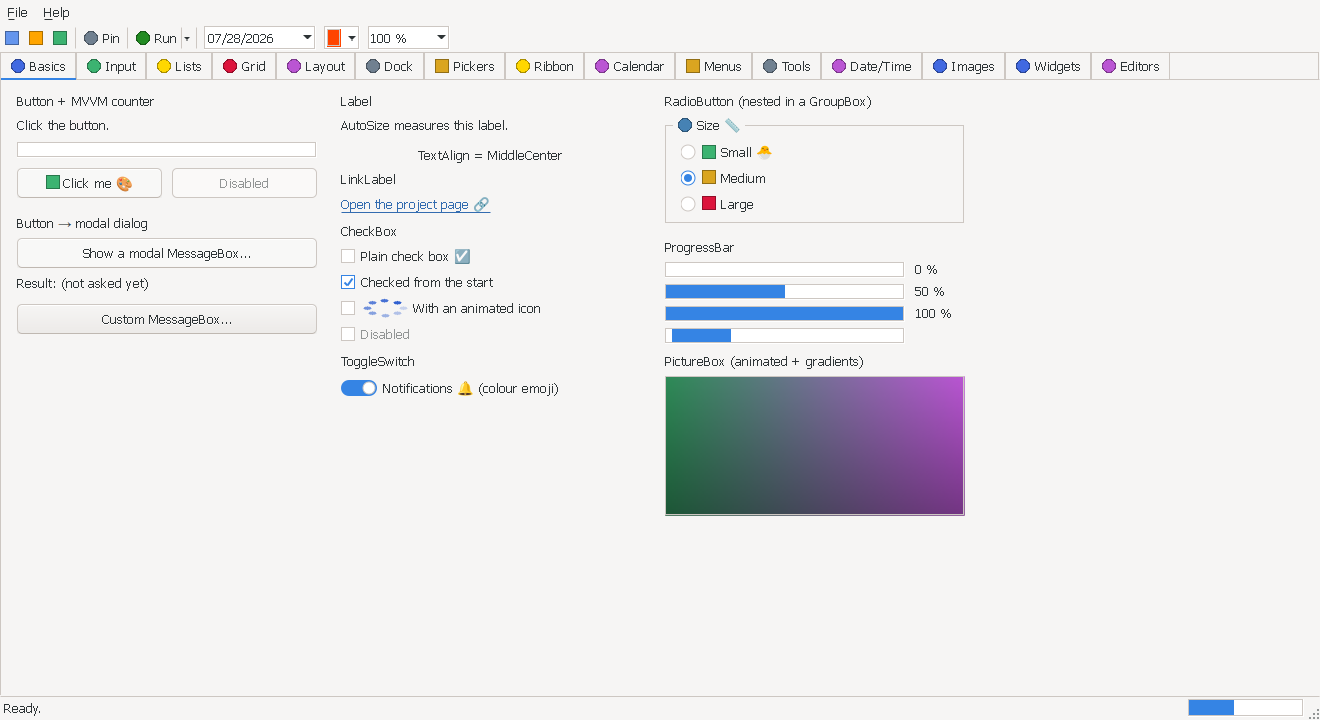
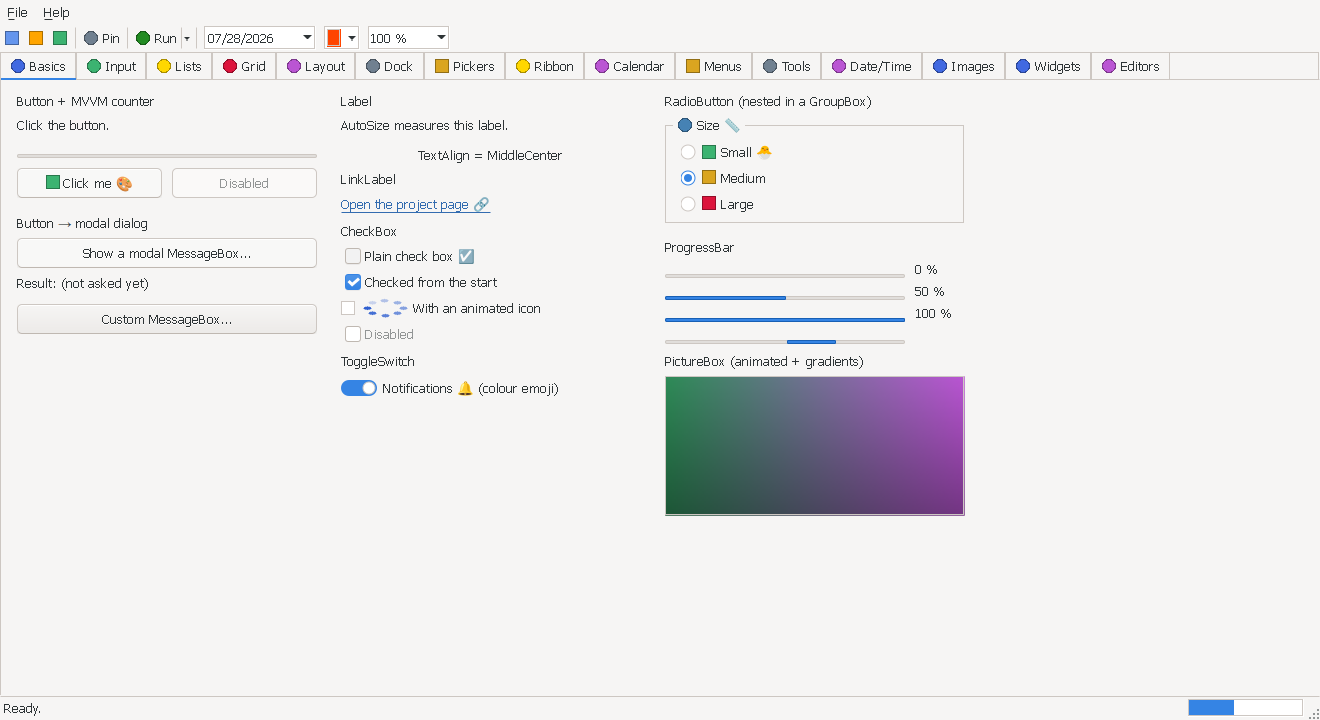
+ ProgressBar promotes to a real GtkProgressBar, proving the promotion mechanism generalizes (docs/PRD.md §12)

diff --git a/NativeForms.Core/Controls/ProgressBar.cs b/NativeForms.Core/Controls/ProgressBar.cs
@@ -17,6 +17,24 @@ namespace Hawkynt.NativeForms;
 /// </remarks>
 public class ProgressBar : OwnerDrawnControl
 {
+    private IProgressBarPeer? _native;
+
+    /// <summary>
+    /// Whether this bar realizes onto a real platform progress indicator rather than the owner-drawn
+    /// surface. <see langword="null"/> (the default) follows <see cref="Application.PreferNativeWidgets"/>.
+    /// </summary>
+    public bool? UseNativeWidget { get; set; }
+
+    /// <summary>Whether the control is currently backed by a real platform progress indicator.</summary>
+    public bool IsNativeWidget => _native is not null;
+
+    /// <summary>
+    /// Whether the configured properties stay inside what a platform progress bar expresses. A vertical
+    /// bar is excluded: GTK needs the orientation set at construction and Win32 needs a distinct style, so
+    /// the owner-drawn path keeps that case until the peers carry it.
+    /// </summary>
+    private bool IsNativeEligible => this.Orientation == Orientation.Horizontal;
+
     private int _minimum;
     private int _maximum = 100;
     private int _value;
@@ -70,6 +88,7 @@ public class ProgressBar : OwnerDrawnControl
                 return;
 
             _value = clamped;
+            this.PushNativeFraction();
             this.Invalidate();
             this.OnValueChanged(EventArgs.Empty);
         }
@@ -86,6 +105,8 @@ public class ProgressBar : OwnerDrawnControl
                 return;
 
             field = value;
+            _native?.SetMarquee(value == ProgressBarStyle.Marquee);
+            this.PushNativeFraction();
             this.UpdateMarqueeTimer();
             this.Invalidate();
         }
@@ -133,6 +154,39 @@ public class ProgressBar : OwnerDrawnControl
     /// <summary>Raises <see cref="ValueChanged"/>.</summary>
     protected virtual void OnValueChanged(EventArgs e) => this.ValueChanged?.Invoke(this, e);
 
+    /// <inheritdoc/>
+    /// <remarks>
+    /// The promotion point (PRD §12): a horizontal bar on a willing backend becomes a real platform
+    /// progress indicator, so the desktop's own trough, fill and animation are used. Everything else falls
+    /// back to the owner-drawn canvas.
+    /// </remarks>
+    private protected override IControlPeer CreatePeer(IPlatformBackend backend)
+    {
+        if ((this.UseNativeWidget ?? Application.PreferNativeWidgets)
+            && this.IsNativeEligible
+            && backend.CreateProgressBar() is { } peer)
+        {
+            _native = peer;
+            peer.SetMarquee(this.Style == ProgressBarStyle.Marquee);
+            peer.SetFraction(this.Fraction);
+            return peer;
+        }
+
+        return base.CreatePeer(backend);
+    }
+
+    /// <summary>The filled share of the track in 0..1, shared by the drawn and the native path.</summary>
+    private double Fraction
+    {
+        get
+        {
+            var range = _maximum - _minimum;
+            return range <= 0 ? 0 : Math.Clamp((double)(_value - _minimum) / range, 0, 1);
+        }
+    }
+
+    private void PushNativeFraction() => _native?.SetFraction(this.Fraction);
+
     private protected override void OnRealized(IControlPeer peer)
     {
         base.OnRealized(peer);
@@ -143,6 +197,7 @@ public class ProgressBar : OwnerDrawnControl
     private protected override void OnUnrealized()
     {
         base.OnUnrealized();
+        _native = null;
         _marqueeTimer?.Dispose();
         _marqueeTimer = null;
     }
@@ -245,6 +300,12 @@ public class ProgressBar : OwnerDrawnControl
             return;
 
         _marqueePhase = (_marqueePhase + Math.Max(1, period / 50)) % period;
-        this.Invalidate();
+
+        // A native indicator animates from its own pulse, not from our phase; both are driven by the same
+        // timer so the animation speed stays the control's property either way.
+        if (_native is { } peer)
+            peer.Pulse();
+        else
+            this.Invalidate();
     }
 }

diff --git a/NativeForms.Backends.Gtk/GtkProgressBarPeer.cs b/NativeForms.Backends.Gtk/GtkProgressBarPeer.cs
@@ -1,0 +1,58 @@
+using Hawkynt.NativeForms.Backends;
+
+namespace Hawkynt.NativeForms.Backends.Gtk;
+
+/// <summary>
+/// The GTK peer for a promoted <see cref="ProgressBar"/>, wrapping a real <c>GtkProgressBar</c> (PRD §12),
+/// so the desktop's own trough, fill and animation are used rather than our approximation of them.
+/// </summary>
+internal sealed class GtkProgressBarPeer : GtkControlPeer, IProgressBarPeer
+{
+    private double _fraction;
+    private bool _marquee;
+
+    /// <inheritdoc />
+    protected override nint CreateWidget() => NativeMethods.gtk_progress_bar_new();
+
+    /// <inheritdoc />
+    /// <remarks>A progress bar shows no caption here; the control draws none either.</remarks>
+    protected override void ApplyText(string text) { }
+
+    /// <inheritdoc />
+    public void SetFraction(double fraction)
+    {
+        _fraction = fraction;
+        if (_widget != 0 && !_marquee)
+            NativeMethods.gtk_progress_bar_set_fraction(_widget, fraction);
+    }
+
+    /// <inheritdoc />
+    public void SetMarquee(bool marquee)
+    {
+        _marquee = marquee;
+        if (_widget == 0)
+            return;
+
+        // Leaving marquee restores the determinate fill; entering it starts from an empty trough so the
+        // block does not jump from wherever the fraction happened to be.
+        if (marquee)
+            NativeMethods.gtk_progress_bar_set_pulse_step(_widget, 0.1);
+        else
+            NativeMethods.gtk_progress_bar_set_fraction(_widget, _fraction);
+    }
+
+    /// <inheritdoc />
+    public void Pulse()
+    {
+        if (_widget != 0 && _marquee)
+            NativeMethods.gtk_progress_bar_pulse(_widget);
+    }
+
+    /// <inheritdoc />
+    protected override void OnWidgetRealized()
+    {
+        NativeMethods.gtk_progress_bar_set_pulse_step(_widget, 0.1);
+        if (!_marquee)
+            NativeMethods.gtk_progress_bar_set_fraction(_widget, _fraction);
+    }
+}

diff --git a/NativeForms.Tests/NativePeerPromotionTests.cs b/NativeForms.Tests/NativePeerPromotionTests.cs
@@ -124,4 +124,49 @@ internal sealed class NativePeerPromotionTests
             Assert.That(raised, Is.EqualTo(1), "and raises the public event exactly once, not twice");
         });
     }
+
+    // --- ProgressBar: the same mechanism, a second control ---------------------------------------
+
+    private static ProgressBar RealizeBar(ProgressBar bar, HeadlessBackend backend)
+    {
+        var form = new Form();
+        form.Controls.Add(bar);
+        Application.Run(form, backend);
+        return bar;
+    }
+
+    [Test]
+    public void A_horizontal_progress_bar_promotes_and_pushes_its_fraction()
+    {
+        var backend = new HeadlessBackend { OfferNativeProgressBar = true };
+        var bar = RealizeBar(new ProgressBar { Bounds = new(0, 0, 200, 20), Minimum = 0, Maximum = 200 }, backend);
+
+        bar.Value = 50;
+
+        Assert.Multiple(() =>
+        {
+            Assert.That(bar.IsNativeWidget, Is.True);
+            Assert.That(backend.LastProgressBar!.Fraction, Is.EqualTo(0.25).Within(0.001), "50 of 200 is a quarter");
+        });
+    }
+
+    [Test]
+    public void A_vertical_progress_bar_stays_owner_drawn()
+    {
+        var backend = new HeadlessBackend { OfferNativeProgressBar = true };
+        var bar = RealizeBar(new ProgressBar { Bounds = new(0, 0, 20, 200), Orientation = Orientation.Vertical }, backend);
+
+        Assert.That(bar.IsNativeWidget, Is.False, "the peers do not carry a vertical orientation yet");
+    }
+
+    [Test]
+    public void Marquee_switches_the_widget_into_its_indeterminate_mode()
+    {
+        var backend = new HeadlessBackend { OfferNativeProgressBar = true };
+        var bar = RealizeBar(new ProgressBar { Bounds = new(0, 0, 200, 20) }, backend);
+
+        bar.Style = ProgressBarStyle.Marquee;
+
+        Assert.That(backend.LastProgressBar!.Marquee, Is.True);
+    }
 }

diff --git a/NativeForms.Tests/Fakes/HeadlessBackend.cs b/NativeForms.Tests/Fakes/HeadlessBackend.cs
@@ -132,7 +132,23 @@ internal sealed class HeadlessBackend : IPlatformBackend
     /// </summary>
     public bool OfferNativeCheckBox { get; set; }
 
-    /// <summary>The last check-box peer handed out, so a test can drive it like the real widget.</summary>
+/// <summary>Whether this backend accepts the progress-bar promotion (PRD §12). Off by default.</summary>
+    public bool OfferNativeProgressBar { get; set; }
+
+    /// <summary>The last progress peer handed out, so a test can inspect what the widget was told.</summary>
+    public HeadlessProgressBarPeer? LastProgressBar { get; private set; }
+
+    public IProgressBarPeer? CreateProgressBar()
+    {
+        if (!this.OfferNativeProgressBar)
+            return null;
+
+        this.LastProgressBar = new HeadlessProgressBarPeer();
+        this.Created.Add(this.LastProgressBar);
+        return this.LastProgressBar;
+    }
+
+        /// <summary>The last check-box peer handed out, so a test can drive it like the real widget.</summary>
     public HeadlessCheckBoxPeer? LastCheckBox { get; private set; }
 
     public ICheckBoxPeer? CreateCheckBox()
@@ -1220,4 +1236,21 @@ internal sealed class HeadlessCheckBoxPeer : HeadlessPeer, ICheckBoxPeer
         _checked = !_checked;
         CheckedChanged?.Invoke(this, EventArgs.Empty);
     }
+}
+
+
+/// <summary>A stand-in for a real platform progress indicator, so the promoted path is testable.</summary>
+internal sealed class HeadlessProgressBarPeer : HeadlessPeer, IProgressBarPeer
+{
+    public double Fraction { get; private set; }
+
+    public bool Marquee { get; private set; }
+
+    public int Pulses { get; private set; }
+
+    public void SetFraction(double fraction) => this.Fraction = fraction;
+
+    public void SetMarquee(bool marquee) => this.Marquee = marquee;
+
+    public void Pulse() => ++this.Pulses;
 }

diff --git a/NativeForms.Backends.Gtk/NativeMethods.cs b/NativeForms.Backends.Gtk/NativeMethods.cs
@@ -285,6 +285,22 @@ internal static partial class NativeMethods
 
     // --- Buttons and labels ---------------------------------------------------------------------
 
+    /// <summary>Creates a <c>GtkProgressBar</c>.</summary>
+    [LibraryImport(Gtk)]
+    internal static partial nint gtk_progress_bar_new();
+
+    /// <summary>Sets the filled fraction (0..1) of a progress bar.</summary>
+    [LibraryImport(Gtk)]
+    internal static partial void gtk_progress_bar_set_fraction(nint progressBar, double fraction);
+
+    /// <summary>Advances an indeterminate progress bar by one step.</summary>
+    [LibraryImport(Gtk)]
+    internal static partial void gtk_progress_bar_pulse(nint progressBar);
+
+    /// <summary>Sets how far a pulse moves the block, as a fraction of the trough.</summary>
+    [LibraryImport(Gtk)]
+    internal static partial void gtk_progress_bar_set_pulse_step(nint progressBar, double fraction);
+
     /// <summary>Creates a <c>GtkCheckButton</c> carrying the given caption.</summary>
     [LibraryImport(Gtk, StringMarshalling = StringMarshalling.Utf8)]
     internal static partial nint gtk_check_button_new_with_label(string label);

diff --git a/NativeForms.Core/Backends/Peers.cs b/NativeForms.Core/Backends/Peers.cs
@@ -466,3 +466,20 @@ public interface ICheckBoxPeer : IControlPeer
     /// platform actually did rather than inferring a flip.</summary>
     bool GetChecked();
 }
+
+
+/// <summary>
+/// A native progress indicator (Win32 <c>msctls_progress32</c>, GTK <c>GtkProgressBar</c>). Created only
+/// when a <see cref="ProgressBar"/> is promoted to a real widget — see PRD §12.
+/// </summary>
+public interface IProgressBarPeer : IControlPeer
+{
+    /// <summary>Sets the filled fraction, clamped to 0..1 by the caller.</summary>
+    void SetFraction(double fraction);
+
+    /// <summary>Switches the indicator between a determinate fill and an indeterminate marquee.</summary>
+    void SetMarquee(bool marquee);
+
+    /// <summary>Advances an indeterminate indicator by one animation step.</summary>
+    void Pulse();
+}

diff --git a/NativeForms.Core/Backends/IPlatformBackend.cs b/NativeForms.Core/Backends/IPlatformBackend.cs
@@ -63,6 +63,9 @@ public interface IPlatformBackend
     /// </summary>
     ICheckBoxPeer? CreateCheckBox() => null;
 
+    /// <summary>Creates a native progress-indicator peer, or <see langword="null"/> to decline (PRD §12).</summary>
+    IProgressBarPeer? CreateProgressBar() => null;
+
     /// <summary>Creates a hidden light-dismiss popup surface peer (drop-downs, menus, tooltips).</summary>
     /// <param name="owner">
     /// The top-level window the surface belongs to, or <see langword="null"/> when none is known.

diff --git a/NativeForms.Backends.Gtk/GtkBackend.cs b/NativeForms.Backends.Gtk/GtkBackend.cs
@@ -156,6 +156,14 @@ public sealed partial class GtkBackend : IPlatformBackend
     }
 
     /// <inheritdoc />
+    /// <remarks>GTK has a real progress bar, so this backend accepts the promotion (PRD §12).</remarks>
+    public IProgressBarPeer? CreateProgressBar()
+    {
+        EnsureInitialized();
+        return new GtkProgressBarPeer();
+    }
+
+    /// <inheritdoc />
     public ICanvasPeer CreateCanvas()
     {
         EnsureInitialized();

diff --git a/docs/PRD.md b/docs/PRD.md
@@ -826,8 +826,8 @@ Every §7 box belongs to a milestone below, except items marked "later / optiona
   demoed and documented.
 - **M11 — Native-peer promotion (§12).** Opt into real platform widgets for the controls that have a
   faithful counterpart, keeping the owner-drawn path as the fallback. `[~]` — the mechanism (gate,
-  opt-in switch, declining backends, identical-behaviour tests) ships with `CheckBox` on GTK; the Win32
-  half and the remaining candidates follow.
+  opt-in switch, declining backends, identical-behaviour tests) ships, with `CheckBox` and `ProgressBar`
+  promoted on GTK; the Win32 halves and the remaining candidates follow.
 - **M12 — Editor depth (§13).** The refinements the shipped M10 controls still want: undo/redo and
   find/replace in `CodeTextBox`, multiline and nested rows in `PropertyGrid`, virtual mode for
   `TreeView`. `[~]` (`DataGridView` virtual mode shipped)
@@ -979,7 +979,7 @@ backend without the widget, and what runs the moment an app asks for something t
 | ------------------------------- | ------------------------------- | ----------------- | -------------------------------------------------- |
 | [x] `CheckBox`                  | `BUTTON` (`BS_AUTOCHECKBOX`) — pending    | `GtkCheckButton` — SHIPPED  | no `Image`                     |
 | [ ] `RadioButton`               | `BUTTON` (`BS_AUTORADIOBUTTON`) | `GtkRadioButton`  | as above                                           |
-| [ ] `ProgressBar`               | `msctls_progress32`             | `GtkProgressBar`  | always (incl. marquee)                             |
+| [x] `ProgressBar`               | `msctls_progress32` — pending             | `GtkProgressBar` — SHIPPED  | horizontal only                             |
 | [ ] `TrackBar`                  | `msctls_trackbar32`             | `GtkScale`        | no custom tick painting                            |
 | [ ] `HScrollBar` / `VScrollBar` | `SCROLLBAR`                     | `GtkScrollbar`    | always                                             |
 | [ ] `GroupBox`                  | `BUTTON` (`BS_GROUPBOX`)        | `GtkFrame`        | no caption image                                   |

diff --git a/docs/controls/progressbar.md b/docs/controls/progressbar.md
@@ -44,6 +44,18 @@ bar.Style = ProgressBarStyle.Marquee;   // indeterminate sweep, timer-driven
 
 Inherits the common members of [`Control`](control.md), plus the owner-drawn surface of `OwnerDrawnControl` (`Invalidate`, `Focus`).
 
+## Native widget promotion
+
+On a backend that offers one — GTK today, Win32 to follow — a **horizontal** bar realizes onto a real
+`GtkProgressBar`, so the desktop's own trough, fill and marquee animation are used. The public surface is
+identical either way; `IsNativeWidget` reports which path was taken, and `UseNativeWidget` overrides
+[`Application.PreferNativeWidgets`](application.md) per control.
+
+A **vertical** bar stays owner-drawn: GTK needs the orientation fixed at construction and Win32 needs a
+distinct window style, so that case waits until the peers carry it. `MarqueeAnimationSpeed` still drives
+the animation on both paths — the same timer either advances our phase or pulses the widget. See
+[PRD §12](../PRD.md#12-native-peer-promotion-opt-into-real-widgets-where-the-platform-has-one).
+
 ## Notes
 
 - Painted with the platform `ITheme` (`FieldBackground` track, `Accent` fill, `Border` outline), so it matches the host desktop; testable headlessly through the test backend's recording canvas.

diff --git a/docs/README.md b/docs/README.md
@@ -83,7 +83,7 @@ Interaction states: [docking drag overlays](screenshots/docking-drag.png),
 | `NumericUpDown` | owner-drawn + hosted editor | [numericupdown.md](controls/numericupdown.md) |
 | `Panel` (incl. `AutoScroll`) | owner-drawn | [panel.md](controls/panel.md) |
 | `PictureBox` | owner-drawn | [picturebox.md](controls/picturebox.md) |
-| `ProgressBar` | owner-drawn | [progressbar.md](controls/progressbar.md) |
+| `ProgressBar` | native (GTK, horizontal) or owner-drawn — see [PRD §12](PRD.md) | [progressbar.md](controls/progressbar.md) |
 | `ProgressTile` | owner-drawn | [progresstile.md](controls/progresstile.md) |
 | `PropertyGrid` | owner-drawn + hosted editors/pickers | [propertygrid.md](controls/propertygrid.md) |
 | `RadioButton` | owner-drawn | [radiobutton.md](controls/radiobutton.md) |
